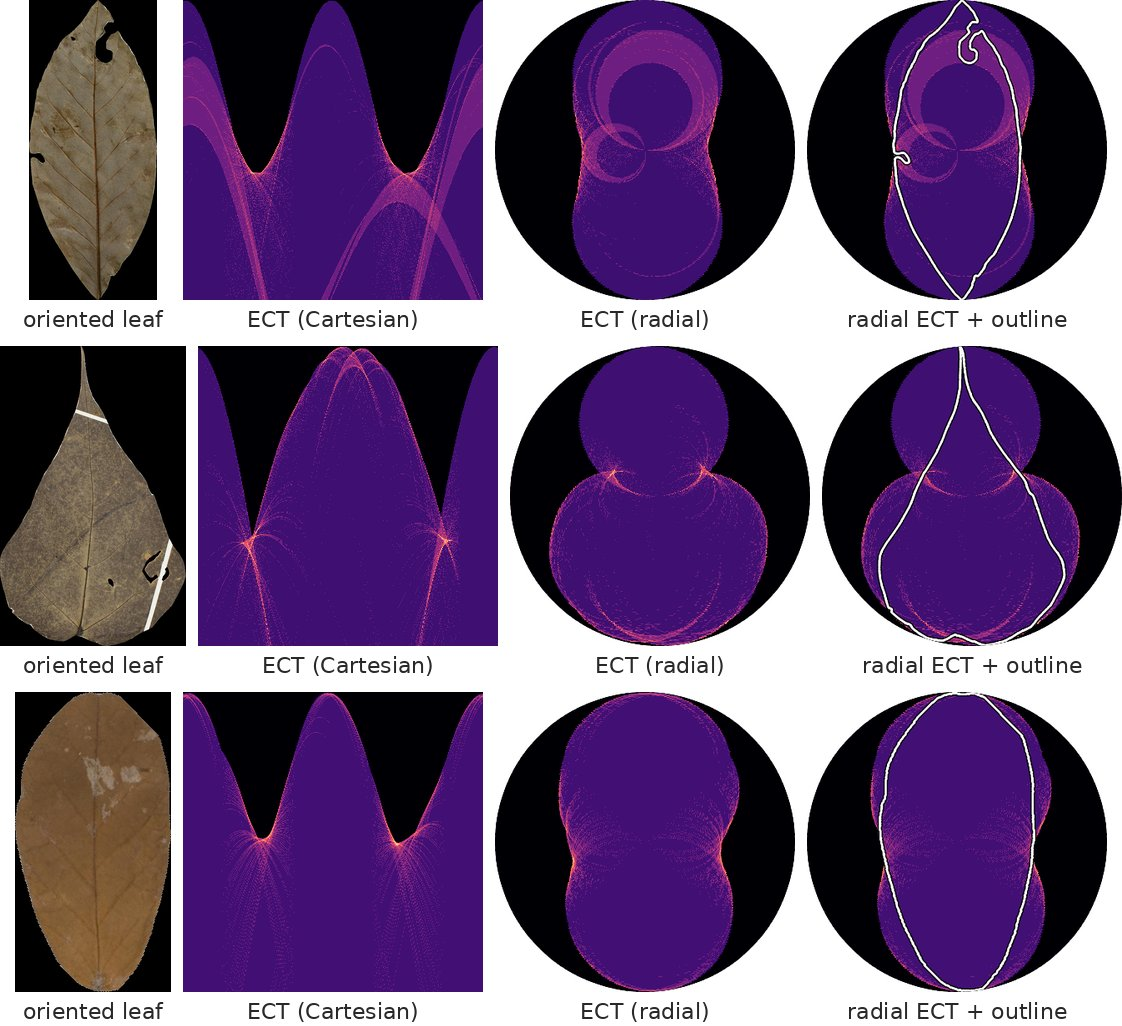
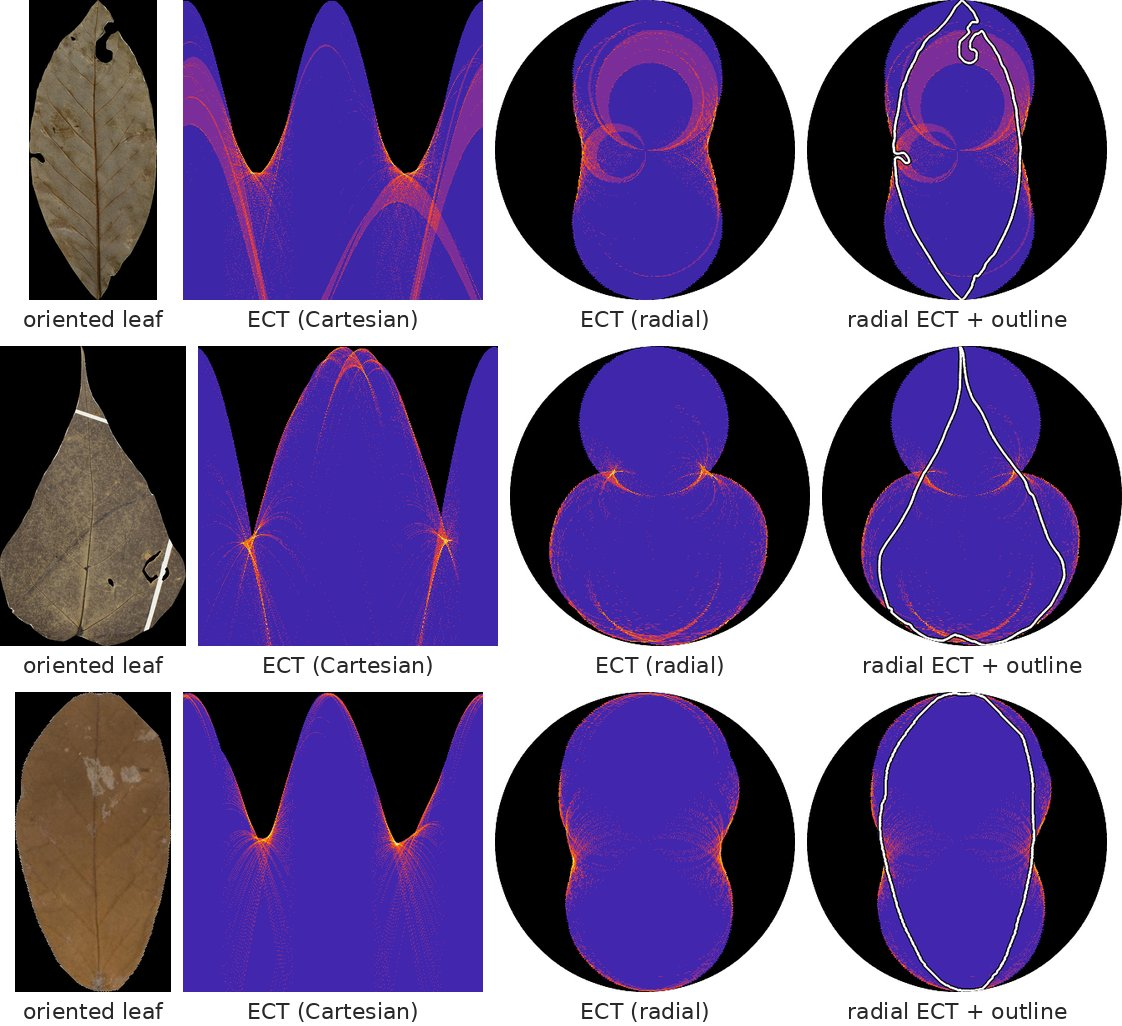
ECT: default palette is now CMRmap (log on)
modules.ect.palette defaults to CMRmap in the module, presets/default.yaml and
LM3_settings.yaml (apply_log_to_visual_for_bold_color stays true). README:
ect.jpg rebuilt from runs/for_readme with the ECT stage rerun on CMRmap; the
resolution comparison re-rendered and re-timed on CMRmap; the palette grid's
default label moves to CMRmap log.

diff --git a/examples/ECT_resolution_options/ect_resolution_comparison.py b/examples/ECT_resolution_options/ect_resolution_comparison.py
@@ -2,7 +2,7 @@
 """Render and time each leaf's ECT at 180, 360 (the default), and 720 directions.
 
 The companion to ``examples/ECT_color_options/ect_color_options.py``: same sample masks, same
-renderers, but the palette is fixed to the LM3 default (``magma`` with the visual log) and the
+renderers, but the palette is fixed to the LM3 default (``CMRmap`` with the visual log) and the
 direction count varies. ``num_dirs`` sets both axes of the ECT -- the number of directions and the
 number of thresholds -- so every render is ``num_dirs x num_dirs`` px:
 
@@ -44,7 +44,7 @@ from ect_color_options import (                                # noqa: E402
 from leafmachine3.reporting.ect_viz import render_radial_ect_overlay   # noqa: E402
 
 DIRS: tuple[int, ...] = (180, 360, 720)
-PALETTE = "magma"
+PALETTE = "CMRmap"
 REPEATS = 10
 
 

diff --git a/leafmachine3/modules/ect.py b/leafmachine3/modules/ect.py
@@ -81,7 +81,7 @@ class ECT(PipelineStage):
             "cartesian_viz": bool(g("cartesian_viz", True)),
             "radial_overlay_viz": bool(g("radial_overlay_viz", True)),
             # Matplotlib colormap name, CASE-SENSITIVE ("Greens" is valid, "greens" is not).
-            "palette": str(g("palette", "magma")),
+            "palette": str(g("palette", "CMRmap")),
             # DISPLAY ONLY -- log-scales the matrix on the way to the renderers so the palette
             # spreads over the dense mid-range. Never reaches the .h5 or the leaf_ect row.
             "apply_log_to_visual_for_bold_color": bool(g("apply_log_to_visual_for_bold_color", True)),

diff --git a/README.md b/README.md
@@ -621,7 +621,7 @@ The transform is computed with the [`ect`](https://github.com/MunchLab/ect) Pyth
 
 `modules.ect.num_dirs` (default 360) sets the ECT's resolution. It is both the number of
 directions and the number of thresholds, so the matrix and every ECT image are `num_dirs` x
-`num_dirs` px. Each row below is the same leaf at one setting (magma palette, log color):
+`num_dirs` px. Each row below is the same leaf at one setting (CMRmap palette, log color):
 
 - **180**: a direction every other degree.
 - **360** (default): one direction per degree. A good tradeoff: cheap to compute, a convenient
@@ -631,16 +631,16 @@ directions and the number of thresholds, so the matrix and every ECT image are `
 
 <table>
   <tr><th>oriented leaf</th><th>ECT (Cartesian)</th><th>radial ECT + outline</th></tr>
-  <tr><td align="center"><img src="docs/readme_github/ect_resolution/simple_toothed__mask.png" height="250" alt="oriented leaf"><br><sub><b>180</b></sub></td><td align="center"><img src="docs/readme_github/ect_resolution/simple_toothed__ECT-cartesian__d180__magma__log.png" width="250" alt="ECT (Cartesian), 180 directions"></td><td align="center"><img src="docs/readme_github/ect_resolution/simple_toothed__ECT-radial-overlay__d180__magma__log.png" width="250" alt="radial ECT + outline, 180 directions"></td></tr>
-  <tr><td align="center"><img src="docs/readme_github/ect_resolution/simple_toothed__mask.png" height="250" alt="oriented leaf"><br><sub><b>360 (default)</b></sub></td><td align="center"><img src="docs/readme_github/ect_resolution/simple_toothed__ECT-cartesian__d360__magma__log.png" width="250" alt="ECT (Cartesian), 360 directions"></td><td align="center"><img src="docs/readme_github/ect_resolution/simple_toothed__ECT-radial-overlay__d360__magma__log.png" width="250" alt="radial ECT + outline, 360 directions"></td></tr>
-  <tr><td align="center"><img src="docs/readme_github/ect_resolution/simple_toothed__mask.png" height="250" alt="oriented leaf"><br><sub><b>720</b></sub></td><td align="center"><img src="docs/readme_github/ect_resolution/simple_toothed__ECT-cartesian__d720__magma__log.png" width="250" alt="ECT (Cartesian), 720 directions"></td><td align="center"><img src="docs/readme_github/ect_resolution/simple_toothed__ECT-radial-overlay__d720__magma__log.png" width="250" alt="radial ECT + outline, 720 directions"></td></tr>
+  <tr><td align="center"><img src="docs/readme_github/ect_resolution/simple_toothed__mask.png" height="250" alt="oriented leaf"><br><sub><b>180</b></sub></td><td align="center"><img src="docs/readme_github/ect_resolution/simple_toothed__ECT-cartesian__d180__CMRmap__log.png" width="250" alt="ECT (Cartesian), 180 directions"></td><td align="center"><img src="docs/readme_github/ect_resolution/simple_toothed__ECT-radial-overlay__d180__CMRmap__log.png" width="250" alt="radial ECT + outline, 180 directions"></td></tr>
+  <tr><td align="center"><img src="docs/readme_github/ect_resolution/simple_toothed__mask.png" height="250" alt="oriented leaf"><br><sub><b>360 (default)</b></sub></td><td align="center"><img src="docs/readme_github/ect_resolution/simple_toothed__ECT-cartesian__d360__CMRmap__log.png" width="250" alt="ECT (Cartesian), 360 directions"></td><td align="center"><img src="docs/readme_github/ect_resolution/simple_toothed__ECT-radial-overlay__d360__CMRmap__log.png" width="250" alt="radial ECT + outline, 360 directions"></td></tr>
+  <tr><td align="center"><img src="docs/readme_github/ect_resolution/simple_toothed__mask.png" height="250" alt="oriented leaf"><br><sub><b>720</b></sub></td><td align="center"><img src="docs/readme_github/ect_resolution/simple_toothed__ECT-cartesian__d720__CMRmap__log.png" width="250" alt="ECT (Cartesian), 720 directions"></td><td align="center"><img src="docs/readme_github/ect_resolution/simple_toothed__ECT-radial-overlay__d720__CMRmap__log.png" width="250" alt="radial ECT + outline, 720 directions"></td></tr>
 </table>
 
 | `num_dirs` | Image size | `compute_ect` | 3 renders | Total per leaf |
 |---|---|---|---|---|
 | 180 | 180 x 180 px | 0.061 s | 0.054 s | 0.115 s |
-| 360 | 360 x 360 px | 0.064 s | 0.133 s | 0.197 s |
-| 720 | 720 x 720 px | 0.079 s | 0.446 s | 0.525 s |
+| 360 | 360 x 360 px | 0.062 s | 0.134 s | 0.196 s |
+| 720 | 720 x 720 px | 0.074 s | 0.444 s | 0.518 s |
 
 Mean of 10 runs on each of the 5 sample leaves, one CPU process. Rendering, not the transform,
 is what grows with resolution. Reproduce with
@@ -659,7 +659,7 @@ ECT. Every palette and view for all five sample leaves is in
 
 <table>
   <tr><th colspan="2"><code>CMRmap</code></th><th colspan="2"><code>magma</code></th><th colspan="2"><code>inferno</code></th></tr>
-  <tr><td align="center"><img src="docs/readme_github/ect_palettes/simple_toothed__ECT-cartesian__d360__CMRmap__linear.png" width="120" alt="CMRmap linear"><br><sub>linear</sub></td><td align="center"><img src="docs/readme_github/ect_palettes/simple_toothed__ECT-cartesian__d360__CMRmap__log.png" width="120" alt="CMRmap log"><br><sub>log</sub></td><td align="center"><img src="docs/readme_github/ect_palettes/simple_toothed__ECT-cartesian__d360__magma__linear.png" width="120" alt="magma linear"><br><sub>linear</sub></td><td align="center"><img src="docs/readme_github/ect_palettes/simple_toothed__ECT-cartesian__d360__magma__log.png" width="120" alt="magma log"><br><sub><b>log (default)</b></sub></td><td align="center"><img src="docs/readme_github/ect_palettes/simple_toothed__ECT-cartesian__d360__inferno__linear.png" width="120" alt="inferno linear"><br><sub>linear</sub></td><td align="center"><img src="docs/readme_github/ect_palettes/simple_toothed__ECT-cartesian__d360__inferno__log.png" width="120" alt="inferno log"><br><sub>log</sub></td></tr>
+  <tr><td align="center"><img src="docs/readme_github/ect_palettes/simple_toothed__ECT-cartesian__d360__CMRmap__linear.png" width="120" alt="CMRmap linear"><br><sub>linear</sub></td><td align="center"><img src="docs/readme_github/ect_palettes/simple_toothed__ECT-cartesian__d360__CMRmap__log.png" width="120" alt="CMRmap log"><br><sub><b>log (default)</b></sub></td><td align="center"><img src="docs/readme_github/ect_palettes/simple_toothed__ECT-cartesian__d360__magma__linear.png" width="120" alt="magma linear"><br><sub>linear</sub></td><td align="center"><img src="docs/readme_github/ect_palettes/simple_toothed__ECT-cartesian__d360__magma__log.png" width="120" alt="magma log"><br><sub>log</sub></td><td align="center"><img src="docs/readme_github/ect_palettes/simple_toothed__ECT-cartesian__d360__inferno__linear.png" width="120" alt="inferno linear"><br><sub>linear</sub></td><td align="center"><img src="docs/readme_github/ect_palettes/simple_toothed__ECT-cartesian__d360__inferno__log.png" width="120" alt="inferno log"><br><sub>log</sub></td></tr>
   <tr><th colspan="2"><code>bone</code></th><th colspan="2"><code>gray</code></th><th colspan="2"><code>pink</code></th></tr>
   <tr><td align="center"><img src="docs/readme_github/ect_palettes/simple_toothed__ECT-cartesian__d360__bone__linear.png" width="120" alt="bone linear"><br><sub>linear</sub></td><td align="center"><img src="docs/readme_github/ect_palettes/simple_toothed__ECT-cartesian__d360__bone__log.png" width="120" alt="bone log"><br><sub>log</sub></td><td align="center"><img src="docs/readme_github/ect_palettes/simple_toothed__ECT-cartesian__d360__gray__linear.png" width="120" alt="gray linear"><br><sub>linear</sub></td><td align="center"><img src="docs/readme_github/ect_palettes/simple_toothed__ECT-cartesian__d360__gray__log.png" width="120" alt="gray log"><br><sub>log</sub></td><td align="center"><img src="docs/readme_github/ect_palettes/simple_toothed__ECT-cartesian__d360__pink__linear.png" width="120" alt="pink linear"><br><sub>linear</sub></td><td align="center"><img src="docs/readme_github/ect_palettes/simple_toothed__ECT-cartesian__d360__pink__log.png" width="120" alt="pink log"><br><sub>log</sub></td></tr>
   <tr><th colspan="2"><code>viridis</code></th><th colspan="2"><code>cividis</code></th><th colspan="2"><code>winter</code></th></tr>

diff --git a/examples/ECT_resolution_options/timings.md b/examples/ECT_resolution_options/timings.md
@@ -1,7 +1,7 @@
-Mean seconds per leaf over 5 masks x 10 runs (palette magma, log), single process.
+Mean seconds per leaf over 5 masks x 10 runs (palette CMRmap, log), single process.
 
 | num_dirs | image size | compute_ect | 3 renders | total |
 |---|---|---|---|---|
 | 180 | 180 x 180 px | 0.061 | 0.054 | 0.115 |
-| 360 | 360 x 360 px | 0.064 | 0.133 | 0.197 |
-| 720 | 720 x 720 px | 0.079 | 0.446 | 0.525 |
+| 360 | 360 x 360 px | 0.062 | 0.134 | 0.196 |
+| 720 | 720 x 720 px | 0.074 | 0.444 | 0.518 |
